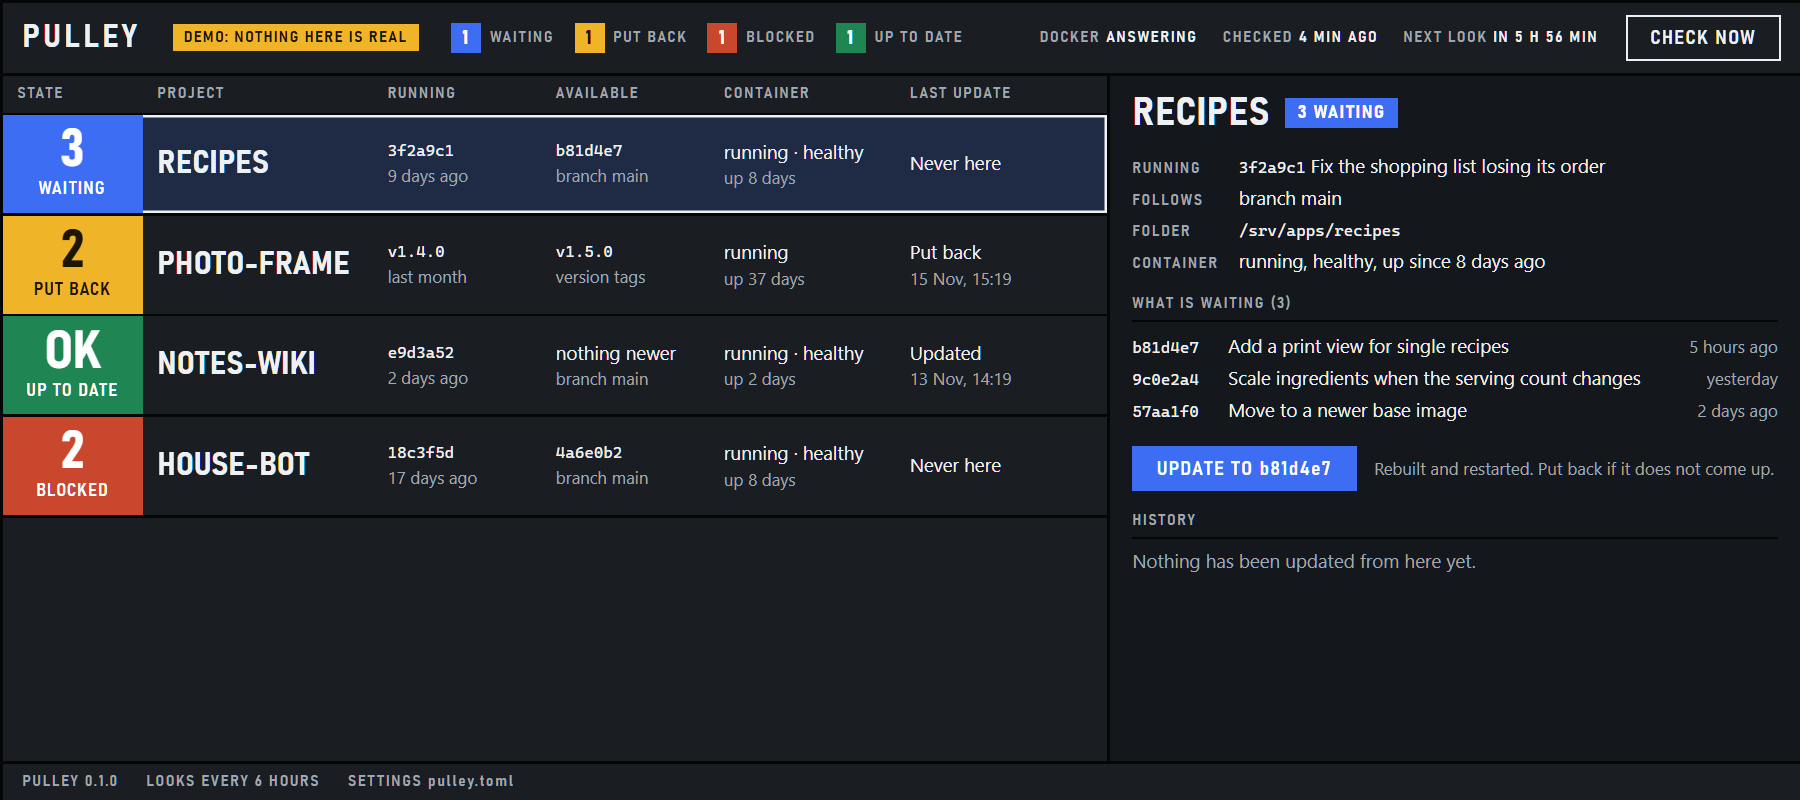
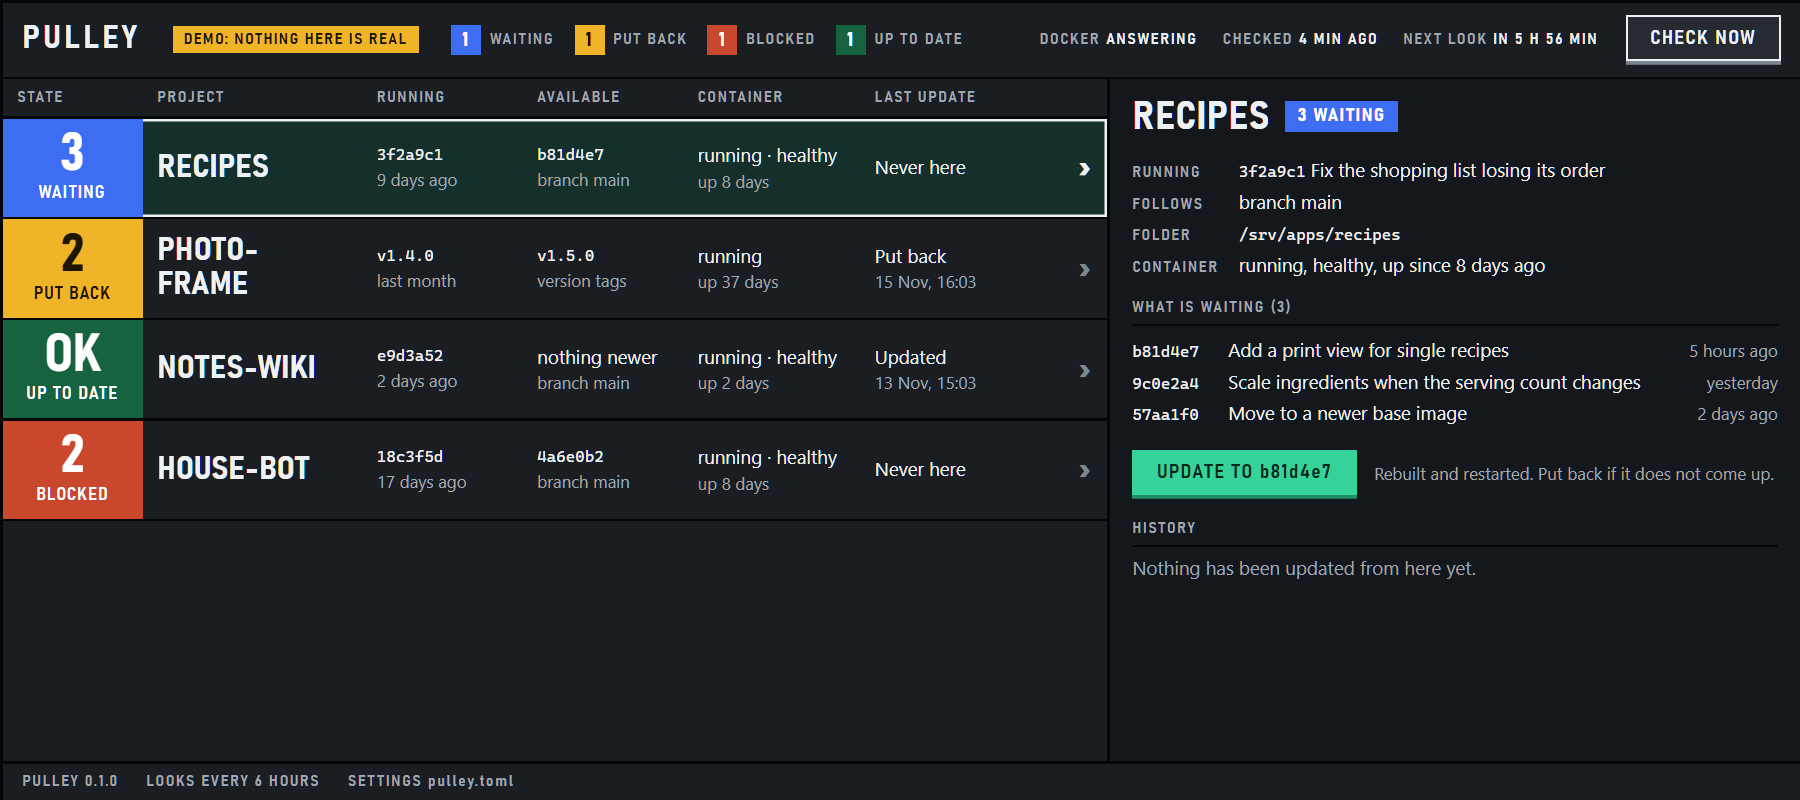
Draw buttons as keys, and keep bright green for Update
What can be pressed has an outline with an edge under it; state blocks and
chips stay flat colour. Update is no longer the same blue as a waiting block,
each row ends in an arrow, and up to date is a darker green than the button.
The README pictures are retaken.

diff --git a/pulley/web/app.css b/pulley/web/app.css
@@ -1,17 +1,27 @@
 /* The whole window is the board: a bar on top, the projects on the left, the selected project's details on
    the right, a thin bar at the bottom. Cells sit 2px apart on a darker ground, like the panels of a
    departures board. A narrow window stacks the same parts, board first.
+
+   One rule decides how everything looks. What can be pressed is a key: an outline with a hard edge
+   under it. A row you can select ends in an arrow. What only tells you something (state blocks,
+   chips, counts) is flat paint with no outline. Bright green is kept for the one main thing to do.
+
    Nothing is loaded from elsewhere, so the type is whatever condensed face the machine has. */
 :root {
   color-scheme: light dark;
   --gap: #b9c0c8;
   --row: #ffffff;
   --panel: #f3f4f6;
-  --sel: #e9efff;
+  --sel: #dcf3e8;
   --ink: #14181c;
   --dim: #56606b;
+  --key: #ffffff;
+  --lip: #8a939e;
+  --go: #34d399;
+  --on-go: #06281c;
+  --go-lip: #1f8f66;
   --new: #1f4fd8;
-  --ok: #1b7a4b;
+  --ok: #17633f;
   --warn: #e0a100;
   --stop: #b3361e;
   --idle: #6b7480;
@@ -31,11 +41,12 @@
     --gap: #050607;
     --row: #1a1e23;
     --panel: #14171b;
-    --sel: #1f2a44;
+    --sel: #15302a;
     --ink: #eef1f4;
     --dim: #a0a9b3;
+    --key: #262b32;
+    --lip: #7d8792;
     --new: #3d6df2;
-    --ok: #1e8553;
     --warn: #f0b429;
     --stop: #c9472d;
     --idle: #59626d;
@@ -56,22 +67,27 @@ h2, h3, p, ul, ol, dl, dd, pre { margin: 0; }
 ul, ol { padding: 0; list-style: none; }
 [hidden] { display: none !important; }
 button { color: inherit; font: inherit; cursor: pointer; }
-button:focus-visible, a:focus-visible, pre:focus-visible, summary:focus-visible { outline: 2px solid var(--ink); outline-offset: 2px; }
+button:focus-visible, a:focus-visible, pre:focus-visible, summary:focus-visible { outline: 2px solid var(--go); outline-offset: 2px; }
 
 /* shared pieces */
 .label { color: var(--dim); font: 600 13px/1.2 var(--disp); font-stretch: condensed; letter-spacing: .1em; text-transform: uppercase; }
 .mono { font: 13px/1.4 var(--mono); }
 .keep { text-transform: none; }
 .grow { flex: 1; }
+/* what can be pressed: a key, which sinks as it is pressed */
 .btn {
-  padding: 7px 18px; border: 2px solid var(--ink); background: none;
+  position: relative; top: 0; margin-bottom: 3px; padding: 7px 18px; border: 2px solid var(--ink);
+  background: var(--key); box-shadow: 0 3px 0 var(--lip); white-space: nowrap;
   font: 600 16px/1.2 var(--disp); font-stretch: condensed; letter-spacing: .07em; text-transform: uppercase;
 }
-.btn:hover:not(:disabled) { background: var(--ink); color: var(--row); }
-.btn.go { border-color: var(--new); background: var(--new); color: var(--on); }
-.btn.go:hover:not(:disabled) { border-color: var(--ink); background: var(--ink); color: var(--row); }
-.btn.small { padding: 2px 9px; border-width: 1px; font-size: 13px; }
+.btn:hover:not(:disabled) { top: 1px; box-shadow: 0 2px 0 var(--lip); }
+.btn:active:not(:disabled) { top: 3px; box-shadow: none; }
+.btn.go { border-color: var(--go); background: var(--go); box-shadow: 0 3px 0 var(--go-lip); color: var(--on-go); }
+.btn.go:hover:not(:disabled) { box-shadow: 0 2px 0 var(--go-lip); }
+.btn.small { margin-bottom: 2px; padding: 2px 9px; box-shadow: 0 2px 0 var(--lip); font-size: 13px; }
+.btn.small:hover:not(:disabled) { box-shadow: 0 1px 0 var(--lip); }
 .btn:disabled { opacity: .4; cursor: default; }
+/* what only tells you something: flat paint */
 .new { background: var(--new); color: var(--on); }
 .ok { background: var(--ok); color: var(--on); }
 .warn { background: var(--warn); color: var(--on-warn); }
@@ -100,7 +116,7 @@ button:focus-visible, a:focus-visible, pre:focus-visible, summary:focus-visible 
 .board { display: flex; flex-direction: column; gap: 2px; min-width: 0; }
 .rows { display: grid; gap: 2px; }
 .rows:empty { display: none; }
-.cols, .row { display: grid; grid-template-columns: 112px minmax(0, 1.3fr) minmax(0, .95fr) minmax(0, .95fr) minmax(0, 1.05fr) minmax(0, 1.2fr); }
+.cols, .row { display: grid; grid-template-columns: 112px minmax(0, 1.3fr) minmax(0, .95fr) minmax(0, .95fr) minmax(0, 1.05fr) minmax(0, 1.2fr) 36px; }
 .cols { background: var(--row); }
 .cols span { padding: 7px 12px; }
 .row { width: 100%; padding: 0; border: 0; background: var(--row); text-align: left; }
@@ -111,6 +127,8 @@ button:focus-visible, a:focus-visible, pre:focus-visible, summary:focus-visible 
 .row .st i { font-style: normal; font-size: 14px; font-weight: 600; letter-spacing: .08em; }
 .row .nm { font: 700 26px/1.05 var(--disp); font-stretch: condensed; letter-spacing: .02em; text-transform: uppercase; }
 .row .sub { color: var(--dim); font-size: 13.5px; }
+.row .open { justify-items: center; padding: 0; color: var(--lip); font: 700 28px/1 var(--disp); }
+.row:hover .open, .row[aria-pressed="true"] .open { color: var(--ink); }
 .row[aria-pressed="true"] { background: var(--sel); box-shadow: inset 0 0 0 2px var(--ink); }
 .rest { flex: 1; min-height: 24px; background: var(--row); }
 .empty { padding: 40px 16px; background: var(--row); color: var(--dim); text-align: center; overflow-wrap: anywhere; }
@@ -159,12 +177,13 @@ button:focus-visible, a:focus-visible, pre:focus-visible, summary:focus-visible 
   .cols, .rest { display: none; }
   .right { margin-left: 0; justify-content: flex-start; }
   .facts { justify-content: flex-start; }
-  .row { grid-template-columns: 92px minmax(0, 1fr); }
+  .row { grid-template-columns: 92px minmax(0, 1fr) 36px; }
   .row .st { grid-row: 1 / span 5; }
   .row .st b { font-size: 34px; }
-  .row > span:not(.st) { display: block; grid-column: 2; padding: 1px 12px; font-size: 13.5px; }
-  .row > span.nm { padding-top: 9px; font-size: 24px; }
-  .row > span:last-child { padding-bottom: 9px; }
+  .row > span:not(.st):not(.open) { display: block; grid-column: 2; padding: 1px 12px; font-size: 13.5px; }
+  .row > span.nm.nm { padding-top: 9px; font-size: 24px; }
+  .row > span:nth-last-child(2):not(.st) { padding-bottom: 9px; }
+  .row > .open { grid-column: 3; grid-row: 1 / span 5; }
   .row > span[data-l]::before { content: attr(data-l) " "; color: var(--dim); font: 600 12px var(--disp); font-stretch: condensed; letter-spacing: .1em; text-transform: uppercase; }
   .hist li { grid-template-columns: minmax(8ch, max-content) minmax(0, 1fr) auto auto; }
   .hist .took { display: none; }

diff --git a/pulley/web/app.js b/pulley/web/app.js
@@ -142,7 +142,8 @@ function row(p) {
   cell('Available', p.target ? called(p.target) : p.state === 'unknown' ? '–' : 'nothing newer', p.follows, !!p.target),
   cell('Container', c ? [c.status || 'unknown', c.health].filter(Boolean).join(' · ') : '–', up),
   cell('Last update', last ? (last.kind === 'back' && last.result === 'done' ? 'Went back' : LAST[last.result] || last.result)
-    : 'Never here', last ? stamp(last.at) : ''));
+    : 'Never here', last ? stamp(last.at) : ''),
+  h('span', {class: 'open', 'aria-hidden': 'true', text: '\u203a'}));
 }
 
 function pick(name) {

diff --git a/pulley/web/index.html b/pulley/web/index.html
@@ -23,7 +23,7 @@
 <main class="main">
   <section class="board" aria-label="Projects">
     <div class="cols label" aria-hidden="true">
-      <span>State</span><span>Project</span><span>Running</span><span>Available</span><span>Container</span><span>Last update</span>
+      <span>State</span><span>Project</span><span>Running</span><span>Available</span><span>Container</span><span>Last update</span><span></span>
     </div>
     <div class="rows" id="rows"></div>
     <p class="empty" id="empty" hidden></p>
